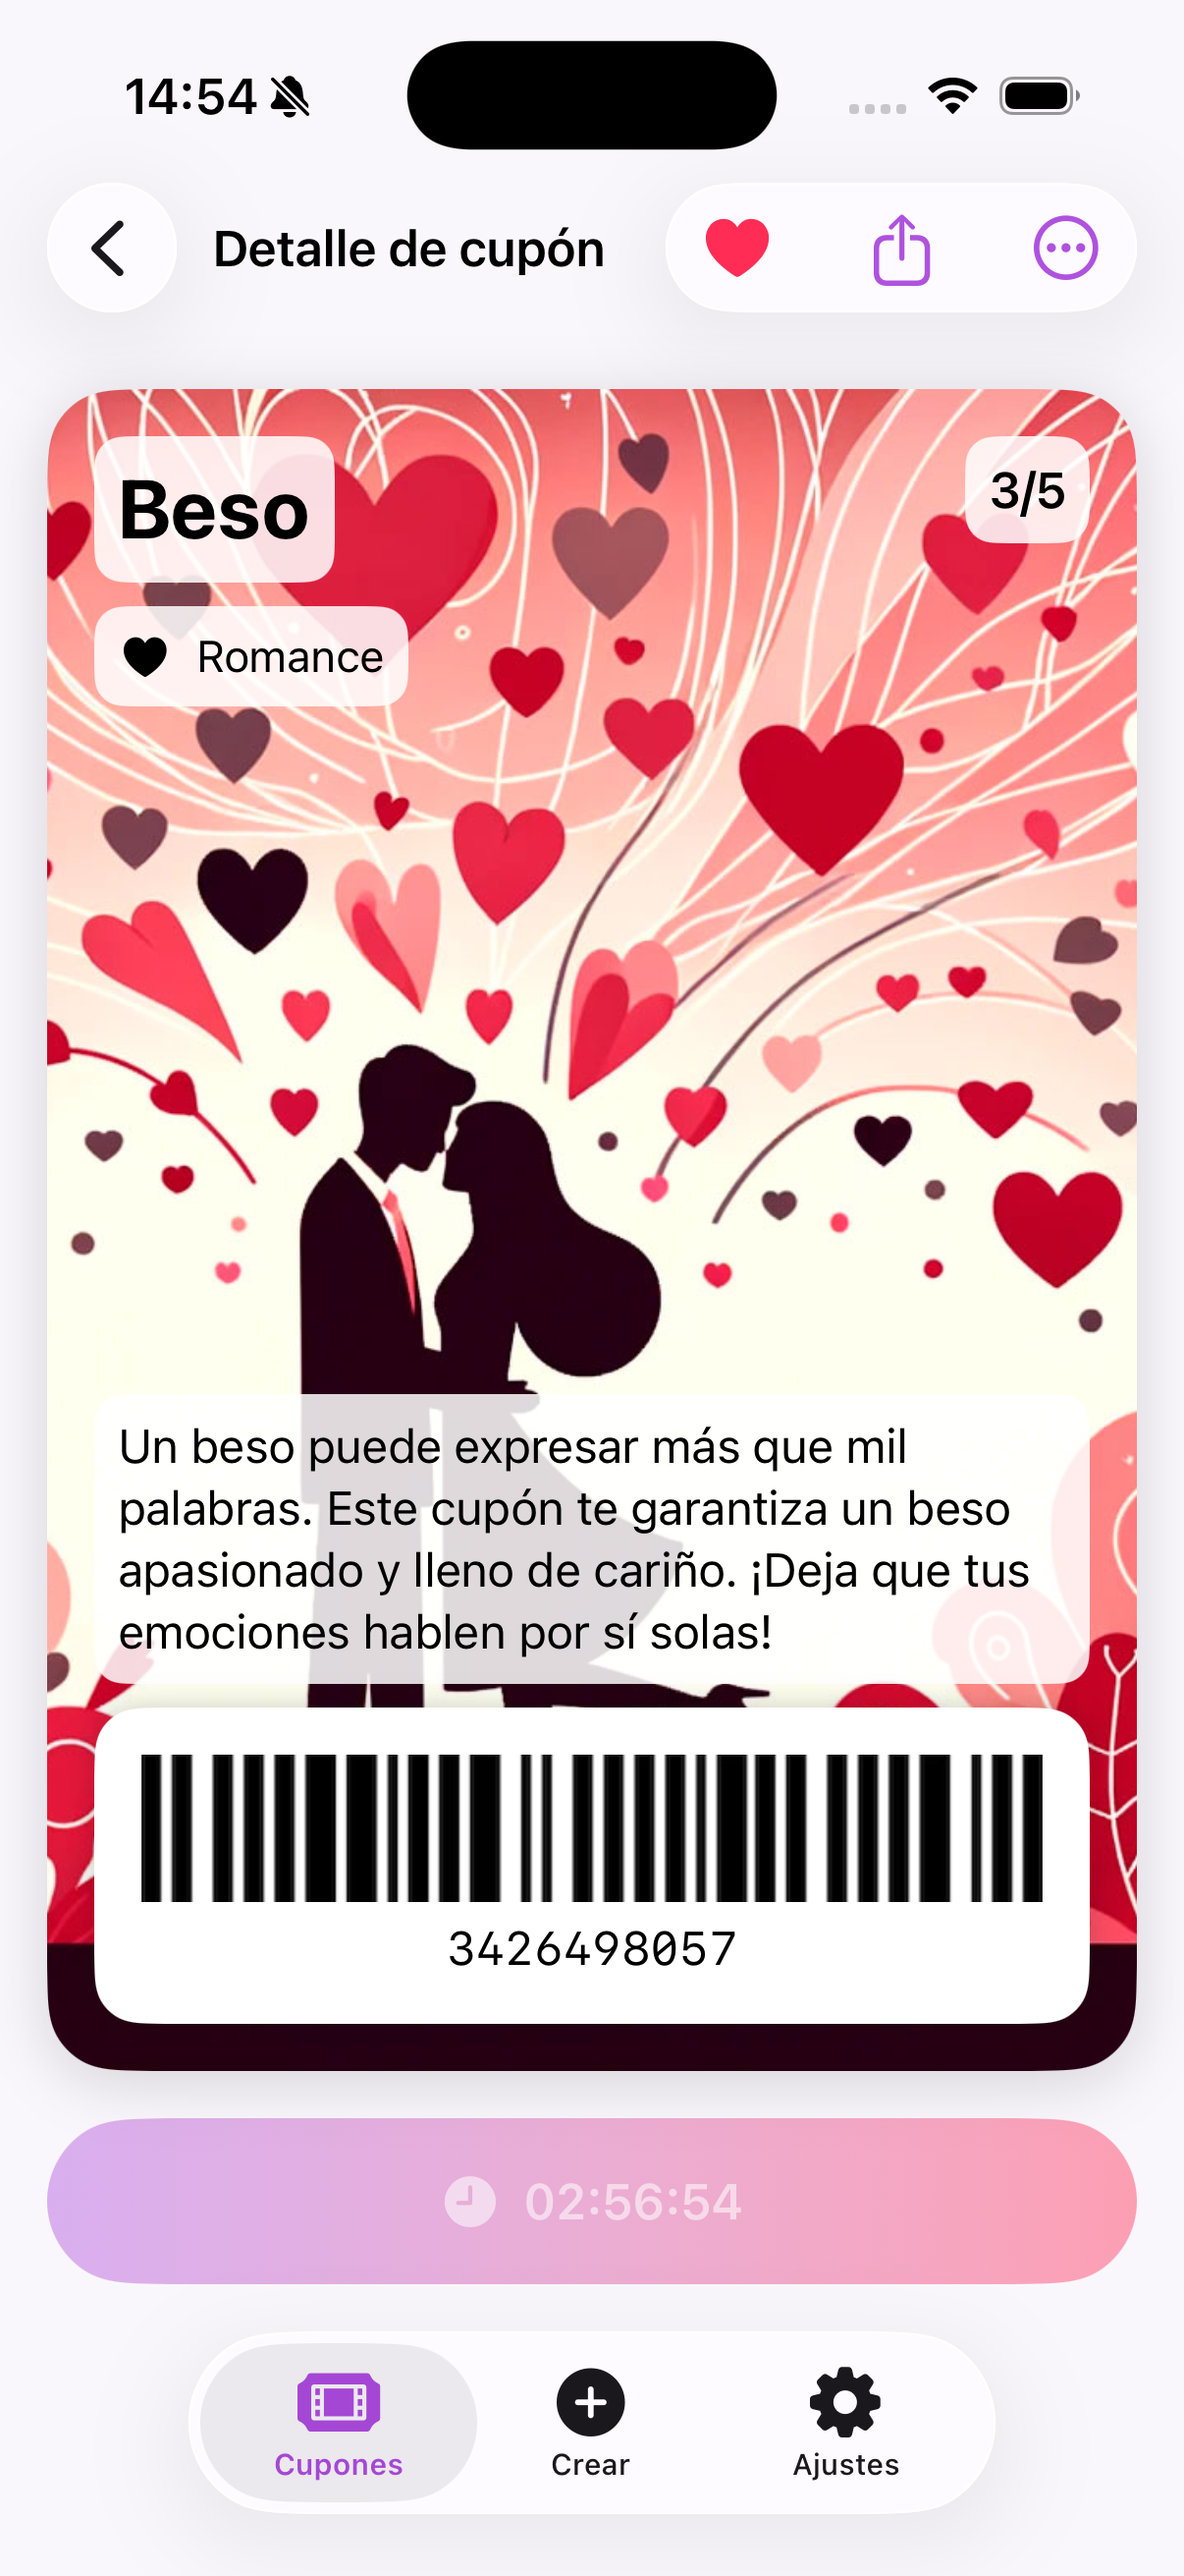
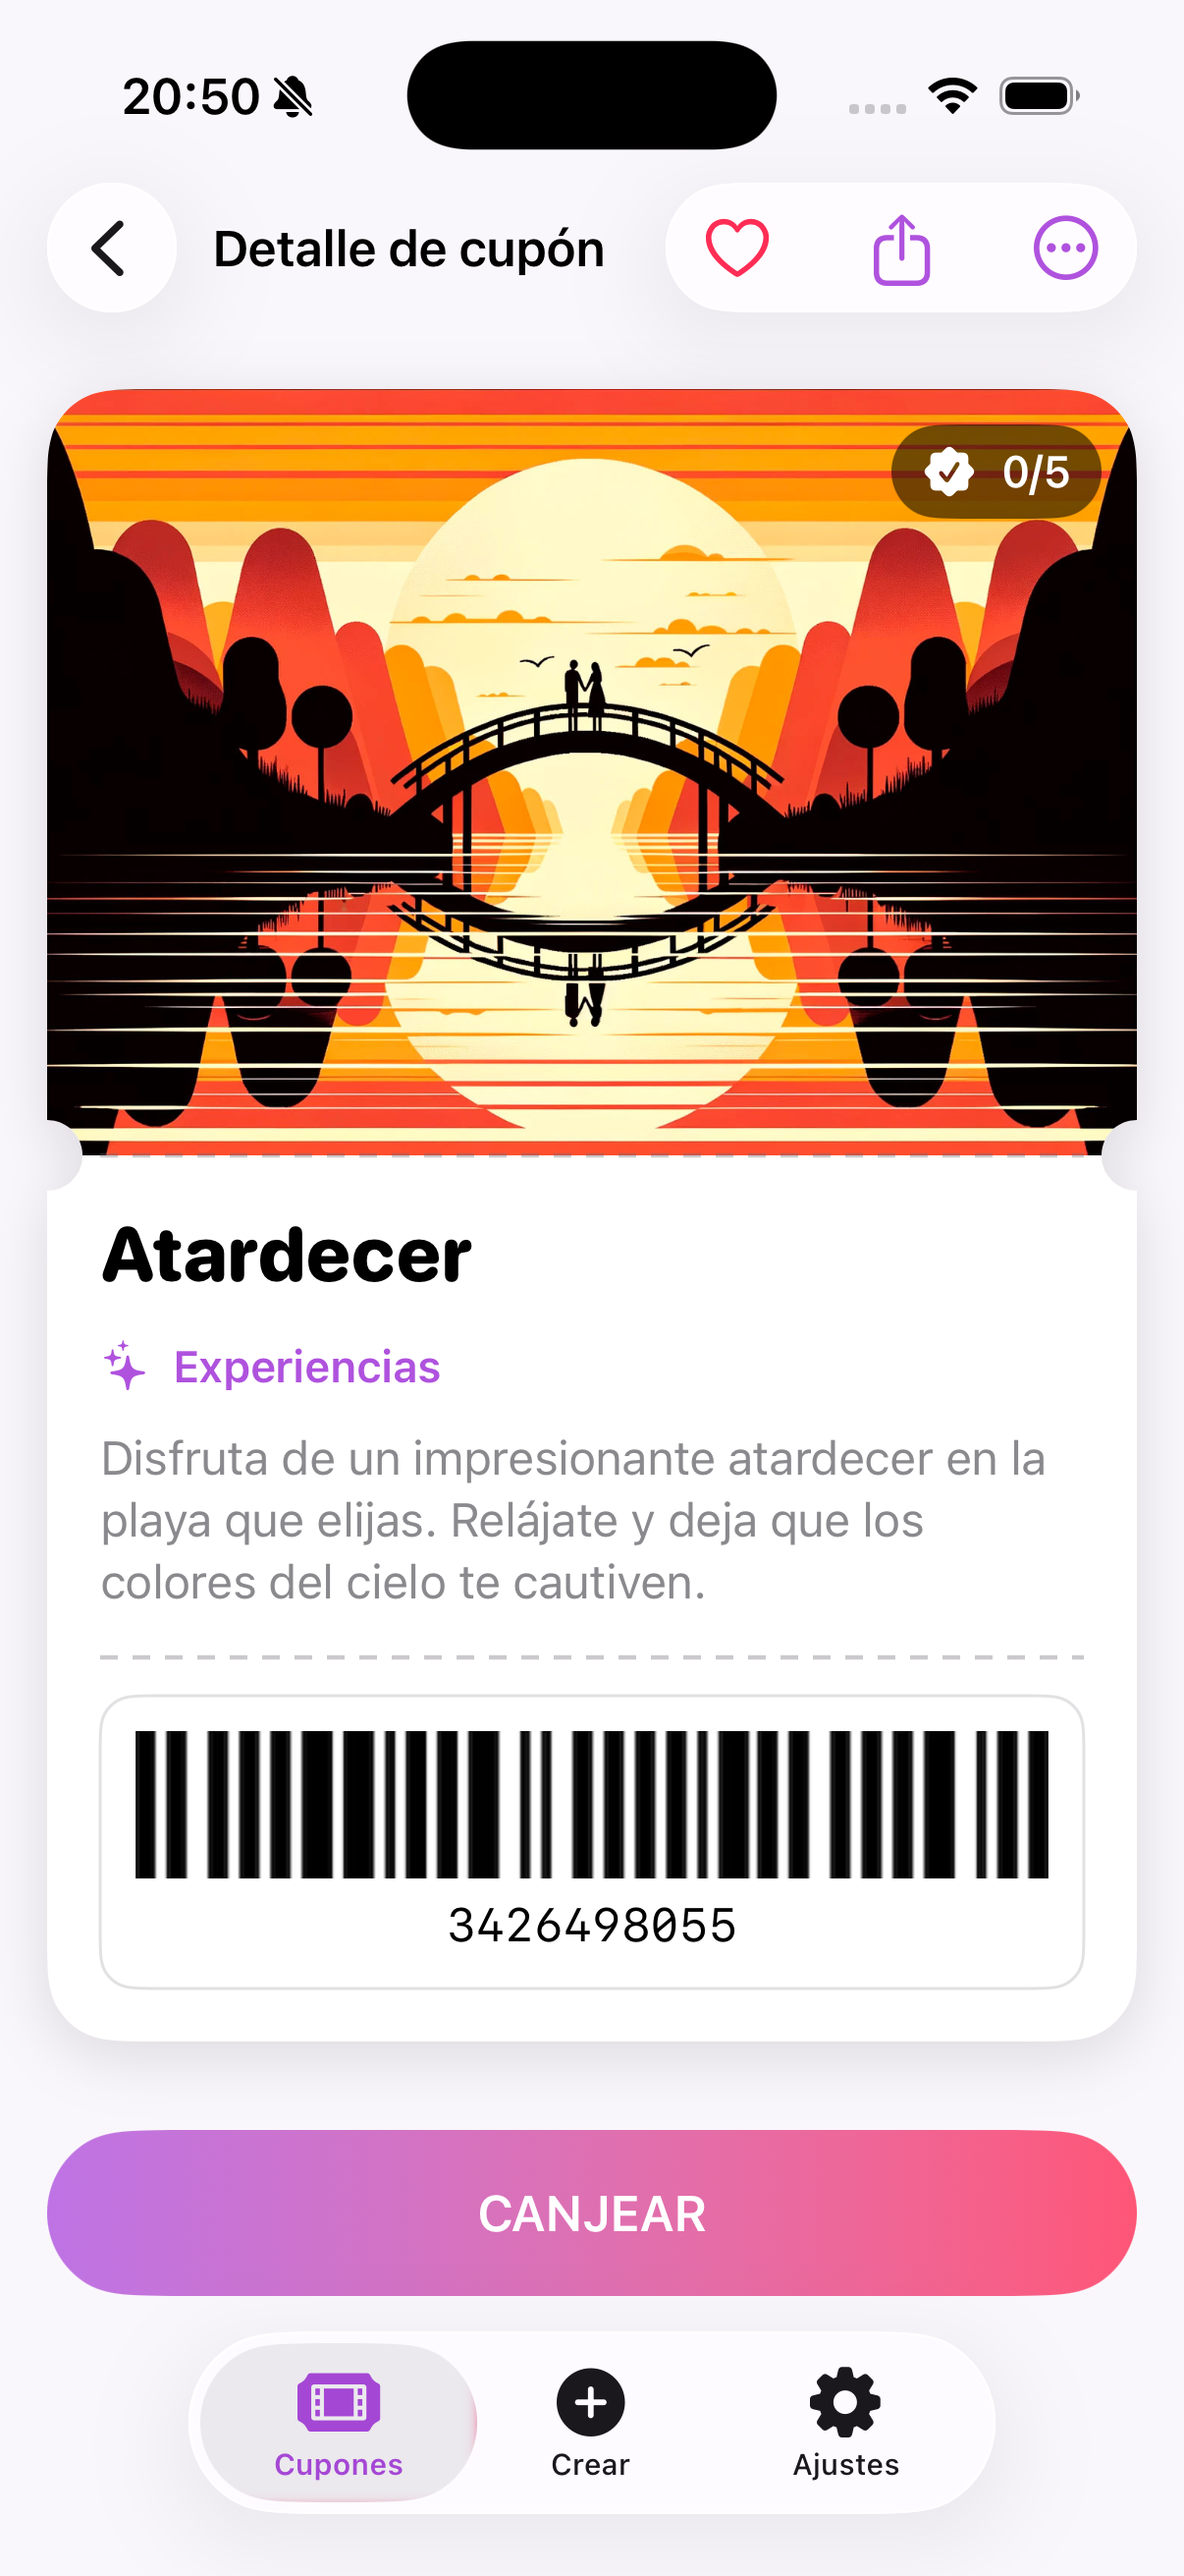
feat: detalle de cupón en formato ticket
Mismo lenguaje que las tarjetas: foto grande con badge de usos y chip
de estado flat, perforación con muescas (TicketPerforation compartida),
y talón con título redondeado, categoría en morado, regalo «De X»,
descripción legible y el código de barras como pegatina blanca con
borde. La foto va en overlay recortado para no desbordar el ancho.

diff --git a/cuponeame/UI/Coupons/CouponDetailScreen.swift b/cuponeame/UI/Coupons/CouponDetailScreen.swift
@@ -25,12 +25,17 @@ struct CouponDetailScreen: View {
     }
 
     private func content(for coupon: Coupon) -> some View {
-        VStack(spacing: 16) {
-            photoCard(for: coupon)
+        VStack(spacing: 0) {
+            ScrollView {
+                ticket(for: coupon)
+                    .padding(16)
+            }
+            .scrollBounceBehavior(.basedOnSize)
 
             redeemButton(for: coupon)
+                .padding(.horizontal, 16)
+                .padding(.bottom, 12)
         }
-        .padding(16)
         .background(CuponColors.background)
         .navigationTitle("Detalle de cupón")
         .navigationBarTitleDisplayMode(.inline)
@@ -108,51 +113,105 @@ struct CouponDetailScreen: View {
         }
     }
 
-    // MARK: - Foto con chips
+    // MARK: - Ticket
 
-    private func photoCard(for coupon: Coupon) -> some View {
-        VStack(alignment: .leading) {
-            HStack(alignment: .top) {
+    private static let photoHeight: CGFloat = 260
+
+    private func ticket(for coupon: Coupon) -> some View {
+        VStack(spacing: 0) {
+            Color.clear
+                .frame(height: Self.photoHeight)
+                .frame(maxWidth: .infinity)
+                .overlay(
+                    CouponImageView(path: coupon.imageName)
+                        .grayscale(coupon.isExhausted ? 1 : 0))
+                .clipped()
+                .overlay(alignment: .topLeading) {
+                    statusChip(for: coupon).padding(12)
+                }
+                .overlay(alignment: .topTrailing) {
+                    usesBadge(for: coupon).padding(12)
+                }
+
+            VStack(alignment: .leading, spacing: 12) {
                 Text(coupon.title)
-                    .font(.title.bold())
-                    .chip()
+                    .font(.system(size: 26, weight: .heavy, design: .rounded))
 
-                Spacer()
+                HStack(spacing: 12) {
+                    Label(coupon.category, systemImage: coupon.categoryIcon)
+                        .font(.subheadline.weight(.semibold))
+                        .foregroundStyle(CuponColors.brandPurple)
 
-                Text("\(coupon.redeemCount)/\(coupon.redeemLimit)")
-                    .font(.headline)
-                    .chip()
+                    if let from = coupon.from {
+                        Label("De \(from)", systemImage: "gift.fill")
+                            .font(.subheadline.weight(.semibold))
+                            .foregroundStyle(CuponColors.brandPink)
+                    }
+                }
+
+                let text = coupon.description.isEmpty ? coupon.shortDescription : coupon.description
+                if !text.isEmpty {
+                    Text(text)
+                        .font(.callout)
+                        .foregroundStyle(.secondary)
+                }
+
+                dashedSeparator
+                    .padding(.top, 4)
+
+                barcodeSticker(for: coupon)
             }
-
-            Label(coupon.category, systemImage: coupon.categoryIcon)
-                .font(.subheadline)
-                .chip()
-
-            if let from = coupon.from {
-                Label("De \(from) 💜", systemImage: "gift.fill")
-                    .font(.subheadline.bold())
-                    .chip()
-            }
-
-            Spacer()
-
-            Text(coupon.description)
-                .font(.callout)
-                .frame(maxWidth: .infinity, alignment: .leading)
-                .chip()
-
-            barcodeCard(for: coupon)
+            .padding(18)
+            .frame(maxWidth: .infinity, alignment: .leading)
         }
-        .padding(16)
-        .frame(maxWidth: .infinity, maxHeight: .infinity)
-        .background(
-            CouponImageView(path: coupon.imageName)
-                .grayscale(coupon.isExhausted ? 1 : 0))
-        .clipShape(RoundedRectangle(cornerRadius: 24))
-        .shadow(color: .black.opacity(0.15), radius: 10, y: 4)
+        .background(CuponColors.surface)
+        .clipShape(PunchedTicketShape(notchY: Self.photoHeight, cornerRadius: 24, notchRadius: 12),
+                   style: FillStyle(eoFill: true))
+        .overlay(TicketPerforation(y: Self.photoHeight))
+        .shadow(color: .black.opacity(0.12), radius: 10, y: 5)
     }
 
-    private func barcodeCard(for coupon: Coupon) -> some View {
+    @ViewBuilder
+    private func statusChip(for coupon: Coupon) -> some View {
+        if coupon.isExhausted {
+            photoChip("Agotado", icon: "nosign")
+        } else if coupon.isOnCooldown() {
+            photoChip("En espera", icon: "clock.fill")
+        }
+    }
+
+    private func photoChip(_ text: String, icon: String) -> some View {
+        Label(text, systemImage: icon)
+            .font(.caption.bold())
+            .foregroundStyle(.white)
+            .padding(.horizontal, 10)
+            .padding(.vertical, 6)
+            .background(.black.opacity(0.55), in: Capsule())
+    }
+
+    private func usesBadge(for coupon: Coupon) -> some View {
+        Label("\(coupon.redeemCount)/\(coupon.redeemLimit)", systemImage: "checkmark.seal.fill")
+            .font(.subheadline.bold())
+            .monospacedDigit()
+            .foregroundStyle(.white)
+            .padding(.horizontal, 10)
+            .padding(.vertical, 6)
+            .background(.black.opacity(0.55), in: Capsule())
+    }
+
+    private var dashedSeparator: some View {
+        GeometryReader { proxy in
+            Path { path in
+                path.move(to: CGPoint(x: 0, y: 0))
+                path.addLine(to: CGPoint(x: proxy.size.width, y: 0))
+            }
+            .stroke(CuponColors.subtleText.opacity(0.35),
+                    style: StrokeStyle(lineWidth: 1.5, dash: [6, 5]))
+        }
+        .frame(height: 1)
+    }
+
+    private func barcodeSticker(for coupon: Coupon) -> some View {
         VStack(spacing: 6) {
             Image("barcode")
                 .resizable()
@@ -160,13 +219,14 @@ struct CouponDetailScreen: View {
 
             Text(coupon.barcode)
                 .font(.callout.monospaced())
+                .foregroundStyle(.black)
         }
-        .padding(16)
+        .padding(12)
         .frame(maxWidth: .infinity)
-        .background(Color.white)
-        .foregroundStyle(.black)
-        .clipShape(RoundedRectangle(cornerRadius: 16))
-        .shadow(color: .black.opacity(0.2), radius: 5)
+        .background(.white, in: RoundedRectangle(cornerRadius: 12))
+        .overlay(
+            RoundedRectangle(cornerRadius: 12)
+                .stroke(CuponColors.subtleText.opacity(0.2), lineWidth: 1))
     }
 
     // MARK: - Canjeo
@@ -209,15 +269,5 @@ struct CouponDetailScreen: View {
         \(coupon.shortDescription)
         — Enviado con Cuponéame 💜
         """
-    }
-}
-
-private extension View {
-    func chip() -> some View {
-        self
-            .padding(8)
-            .background(Color.white.opacity(0.85))
-            .clipShape(RoundedRectangle(cornerRadius: 10))
-            .foregroundStyle(.black)
     }
 }

diff --git a/cuponeame/UI/Coupons/CouponCard.swift b/cuponeame/UI/Coupons/CouponCard.swift
@@ -111,10 +111,19 @@ struct CouponCard: View {
     }
 
     private var perforation: some View {
+        TicketPerforation(y: Self.photoHeight)
+    }
+}
+
+/// Línea discontinua de perforación a la altura de las muescas.
+struct TicketPerforation: View {
+    let y: CGFloat
+
+    var body: some View {
         GeometryReader { proxy in
             Path { path in
-                path.move(to: CGPoint(x: 18, y: Self.photoHeight))
-                path.addLine(to: CGPoint(x: proxy.size.width - 18, y: Self.photoHeight))
+                path.move(to: CGPoint(x: 18, y: y))
+                path.addLine(to: CGPoint(x: proxy.size.width - 18, y: y))
             }
             .stroke(CuponColors.subtleText.opacity(0.35),
                     style: StrokeStyle(lineWidth: 1.5, dash: [6, 5]))
